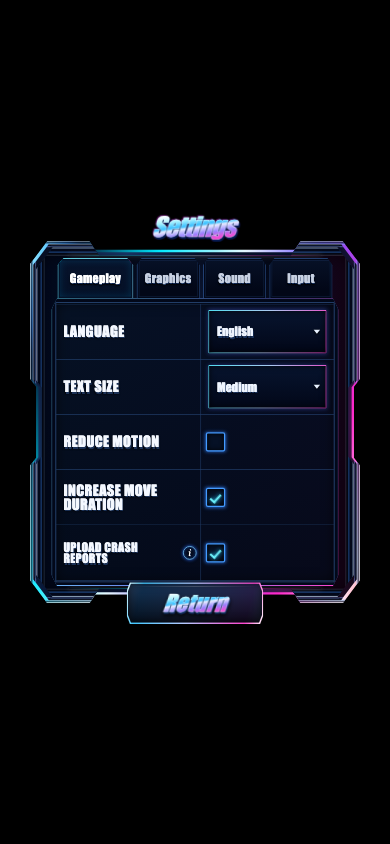
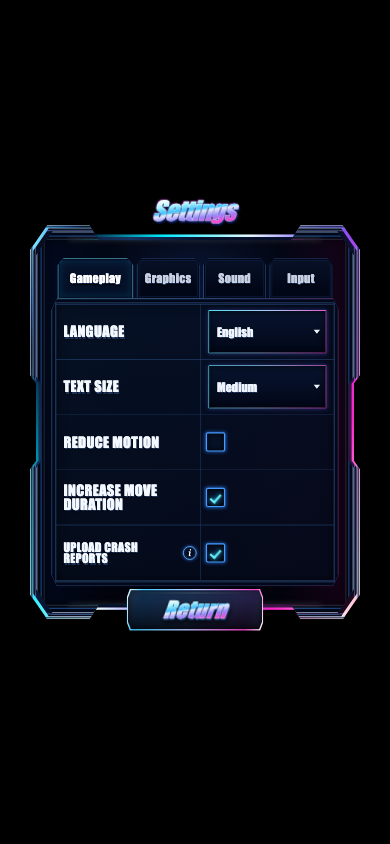
style: add settings frame breathing room

diff --git a/app/components/ArcadeFrame.tsx b/app/components/ArcadeFrame.tsx
@@ -19,7 +19,7 @@ export function ArcadeFrame({
       style={mergeStyles({
         position: "relative",
         width: 820,
-        height: settings ? 900 : 820,
+        height: settings ? 980 : 820,
         filter: "drop-shadow(0 26px 50px rgb(0 0 0 / 58%))",
         alignSelf: "center",
       })}
@@ -95,7 +95,7 @@ function FrameSurface({ children, settings }: { children: ReactNode; settings: b
           flexDirection: settings ? undefined : "column",
           alignItems: settings ? "stretch" : "center",
           justifyContent: settings ? "stretch" : "space-evenly",
-          padding: settings ? "24px 35px" : "0 70px",
+          padding: settings ? "64px 35px" : "0 70px",
           clipPath: frameClip,
           border: "3px solid rgb(201 231 255 / 65%)",
           background:

diff --git a/app/components/squareScale.ts b/app/components/squareScale.ts
@@ -1,10 +1,10 @@
 export const DESIGN_SIZE = 900;
-export const PORTRAIT_DESIGN_HEIGHT = 1040;
+export const PORTRAIT_DESIGN_HEIGHT = 1120;
 
 export const squareSize = "var(--prototype-square-size, 900px)";
 export const squareScale = "var(--prototype-square-scale, 1)";
 export const portraitWidth = "var(--prototype-portrait-width, 900px)";
-export const portraitHeight = "var(--prototype-portrait-height, 1040px)";
+export const portraitHeight = "var(--prototype-portrait-height, 1120px)";
 export const portraitScale = "var(--prototype-portrait-scale, 1)";
 
 export const squareScaleScript = `

diff --git a/app/components/ReturnButton.tsx b/app/components/ReturnButton.tsx
@@ -7,7 +7,7 @@ export function ReturnButton({ onClick }: { onClick: () => void }) {
         position: "absolute",
         zIndex: 6,
         left: "50%",
-        bottom: -52,
+        bottom: "calc(2.4% - 52px)",
         width: 340,
         display: "grid",
         transform: "translateX(-50%)",
